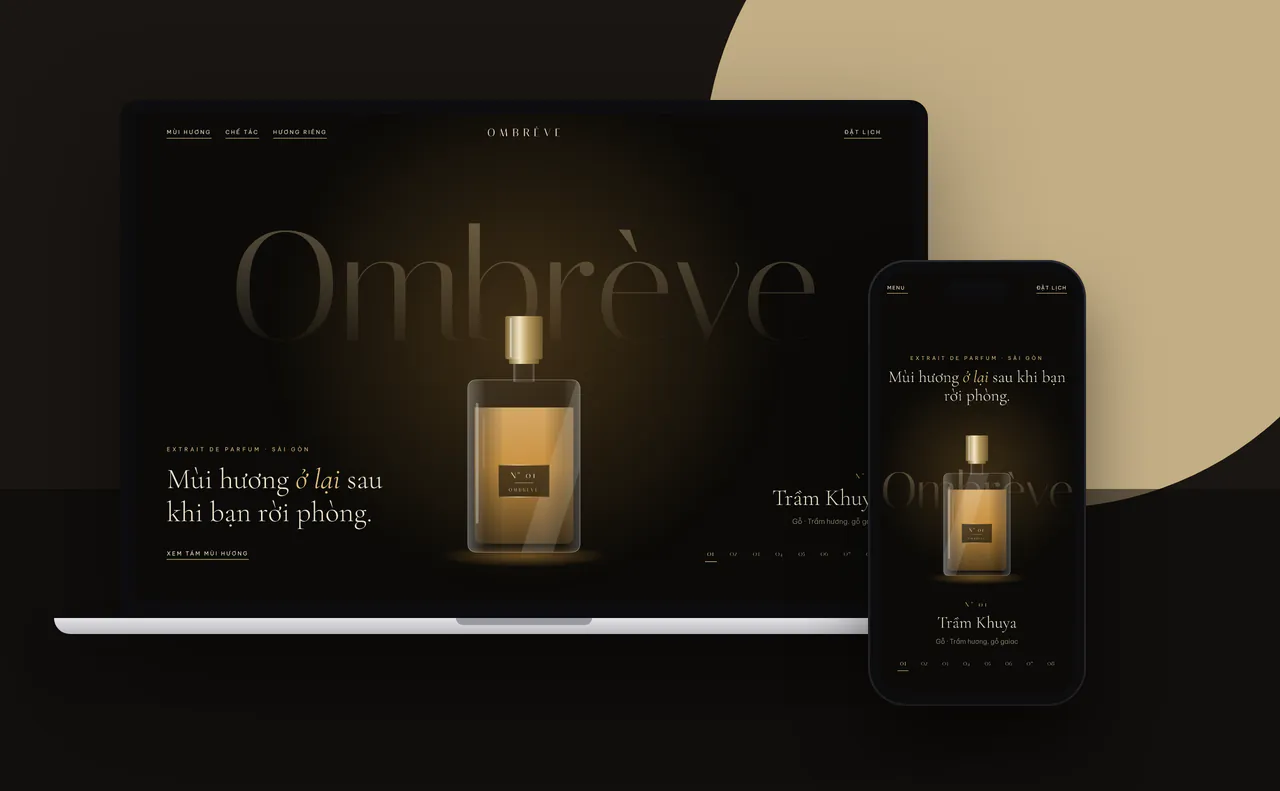
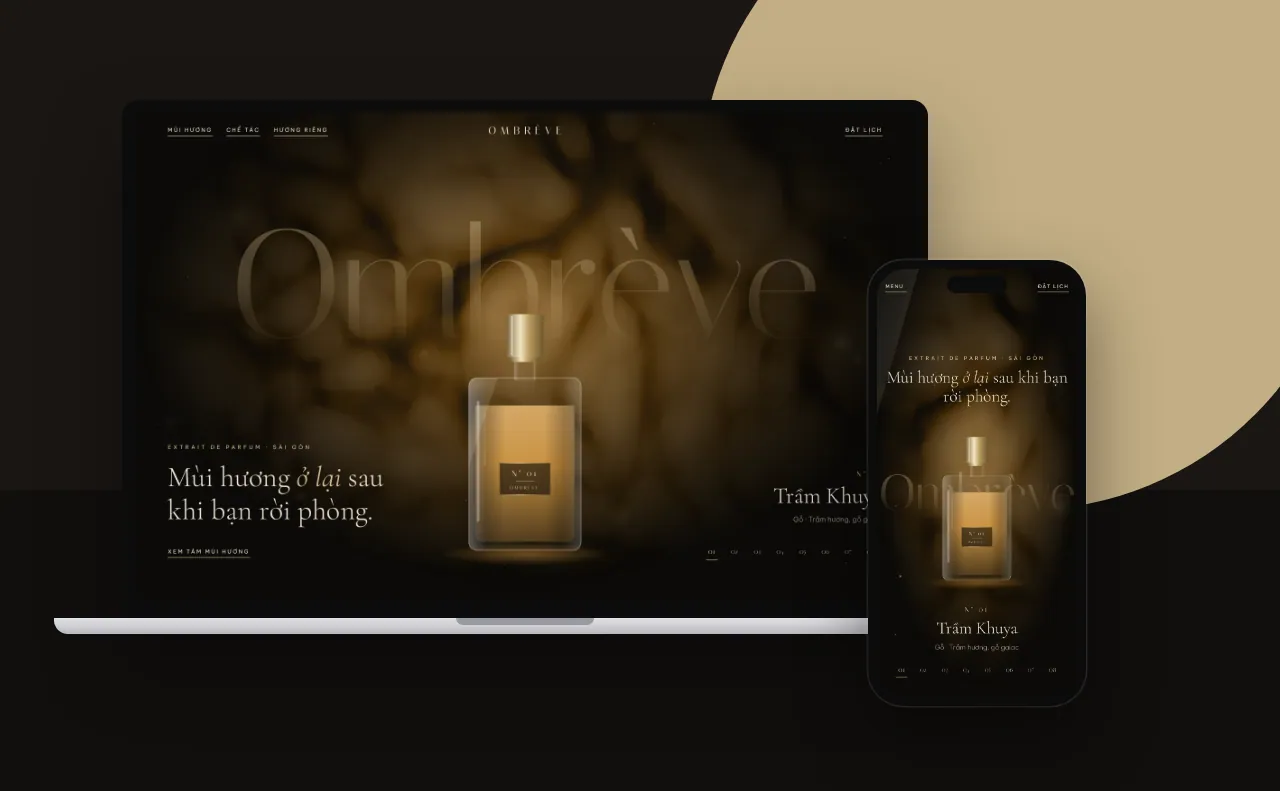
Demo Ombrève: hero điện ảnh, ba chương ghim mở bằng iris, lookbook kéo có quán tính
Claude-Session: https://claude.ai/code/session_012QLWn7rvRysGvRwdv6upwG

diff --git a/demos/lux-ombreve.html b/demos/lux-ombreve.html
@@ -46,14 +46,6 @@ input,select,textarea{font:inherit;color:inherit;border-radius:0}
 .qv-x{position:absolute;z-index:3;width:42px;height:42px;display:grid;place-items:center;font-size:26px;line-height:1}
 .toast{position:fixed;left:50%;bottom:26px;z-index:130;transform:translate(-50%,26px);opacity:0;pointer-events:none;transition:opacity 424ms var(--ease),transform 424ms var(--ease);max-width:calc(100vw - 32px);padding:10px 26px;font-size:13px;text-align:center}
 .toast.on{opacity:1;transform:translate(-50%,0)}
-.ph{position:relative;overflow:hidden;margin:0;background:var(--bg2)}
-.ph img{display:block;width:100%;height:100%;object-fit:cover;transition:transform 1796ms var(--ease),filter 1110ms var(--ease)}
-.pe{position:relative;overflow:hidden}.pe>.ph{position:absolute;inset:0}.pe>.ph img{position:absolute;left:0;top:-9%;height:118%}
-.pg-g{display:grid;grid-template-columns:repeat(4,1fr);grid-auto-rows:clamp(160px,19vw,300px);gap:10px}
-.pg-g .ph:first-child{grid-column:span 2;grid-row:span 2}.pg-4 .ph:nth-child(2){grid-column:span 2}
-.pg-g .ph:hover img{transform:scale(1.05)}
-.pg-g figcaption{position:absolute;left:0;right:0;bottom:0;padding:26px 16px 10px;font-size:13px;line-height:1.38;pointer-events:none}
-@media(max-width:700px){.pg-g{grid-template-columns:1fr 1fr;grid-auto-rows:clamp(150px,52vw,260px);gap:6px}.pg-g .ph:first-child{grid-row:span 1}.pg-4 .ph:nth-child(2){grid-column:span 1}.pg-4 .ph:last-child{grid-column:span 2}}
 .back{position:fixed;left:16px;bottom:16px;z-index:60;min-height:42px;padding:0 16px;display:flex;align-items:center;font-size:13px;letter-spacing:.04em}
 .fm{min-height:26px;font-size:13px}
 @media (prefers-reduced-motion:reduce){.js [data-r],.js [data-r=lines] .ln>span{opacity:1!important;transform:none!important;clip-path:none!important;transition:none!important}*,*::before,*::after{animation-duration:.01ms!important;animation-delay:0s!important;animation-iteration-count:1!important;transition-duration:.01ms!important;transition-delay:0s!important;scroll-behavior:auto!important}}
@@ -232,20 +224,61 @@ footer{border-top:1px solid var(--line);padding:68px 0 110px;text-align:center;o
 .fc a{color:var(--acc);text-decoration:underline;text-underline-offset:4px;display:inline-block;padding:13px 0;margin:-13px 0}
 .toast{background:var(--acc);color:var(--bg)}
 .back{border:1px solid var(--line);background:rgba(11,10,8,.72);backdrop-filter:blur(10px);color:var(--acc)}
-/*PH-CSS*/
-.pe{height:clamp(480px,92svh,940px);display:grid;align-items:end;border-block:1px solid var(--line)}
-.pe>.ph img{filter:sepia(.22) saturate(.82) brightness(.78) contrast(1.06)}
-.pe::after{content:"";position:absolute;inset:0;background:linear-gradient(0deg,rgba(11,10,8,.94) 0,rgba(11,10,8,.42) 38.2%,rgba(11,10,8,0) 61.8%),radial-gradient(ellipse at 50% 38%,transparent 38%,rgba(11,10,8,.5));pointer-events:none}
-.pe-t{position:relative;z-index:2;padding-bottom:68px}
-.pe-t .h2{margin:16px 0 26px;max-width:12em}
-.pe-c{color:var(--mut);max-width:26em}
-.pg-h{margin-bottom:42px}
-.pg-g .ph{border:1px solid var(--line);background:var(--bg2)}
-.pg-g img{filter:sepia(.24) saturate(.7) brightness(.62) contrast(1.08)}
-.pg-g .ph:first-child img{object-position:50% 62%}
-.pg-g .ph:hover img{filter:sepia(.1) saturate(.92) brightness(.9) contrast(1.04)}
-.pg-g figcaption{font-family:var(--fd);letter-spacing:.16em;color:var(--acc);background:linear-gradient(0deg,rgba(11,10,8,.86),transparent)}
-/*/PH-CSS*/
+/*MOTION*/
+.hb{position:absolute;inset:-5%;opacity:.46;isolation:isolate;-webkit-mask:radial-gradient(ellipse 60% 66% at 50% 42%,#000 6%,transparent 76%);mask:radial-gradient(ellipse 60% 66% at 50% 42%,#000 6%,transparent 76%);pointer-events:none}
+.hb img{width:100%;height:100%;object-fit:cover;filter:brightness(.78) contrast(1.16)}
+.hb::after{content:"";position:absolute;inset:0;background:var(--sc);mix-blend-mode:color}
+.hc{position:absolute;inset:0;width:100%;height:100%;pointer-events:none}
+.hsw{position:absolute;inset:-20% auto -20% 0;width:34%;background:linear-gradient(100deg,transparent,rgba(243,230,196,.1) 50%,transparent);transform:translateX(-130%) skewX(-16deg);pointer-events:none}
+.mo .hb img{animation:kb 30s ease-in-out infinite alternate}
+.mo .hsw{animation:hsw 9.6s 2.6s var(--ease) infinite}
+@keyframes kb{from{transform:scale(1.03)}to{transform:scale(1.2) translate(-2.6%,1.6%)}}
+@keyframes hsw{0%,42%{transform:translateX(-130%) skewX(-16deg)}100%{transform:translateX(430%) skewX(-16deg)}}
+.mo .hl h1 .wd{display:inline-block;overflow:hidden;vertical-align:top;padding:.3em .04em .2em;margin:-.3em -.04em -.2em}
+.mo .hl h1 .wd i{display:inline-block;font-style:inherit;animation:chr 1.5s var(--ease) both;animation-delay:calc(.62s + var(--k)*30ms)}
+@keyframes chr{from{transform:translateY(125%) rotate(7deg);opacity:0}}
+.cp{position:relative;height:clamp(480px,92svh,940px);display:grid;align-items:end;overflow:hidden;border-bottom:1px solid var(--line)}
+.cf{position:absolute;inset:0;margin:0}
+.cf img{width:100%;height:100%;object-fit:cover;object-position:var(--o,50% 50%);filter:sepia(.2) saturate(.84) brightness(.8) contrast(1.06);transform-origin:var(--o,50% 50%)}
+.cp::after{content:"";position:absolute;inset:0;background:linear-gradient(0deg,rgba(11,10,8,.95) 0,rgba(11,10,8,.5) 34%,rgba(11,10,8,0) 62%),linear-gradient(90deg,rgba(11,10,8,.6),transparent 56%);pointer-events:none}
+.ct{position:relative;z-index:2;padding-bottom:84px}
+.ct .h2{margin:16px 0 26px;max-width:12em}
+.ct>p:last-child{color:#b8ad99;max-width:26em}
+.cn,.cb{display:none}
+.mo .ch3{height:340vh}
+.mo .ch3-s{position:sticky;top:0;height:100vh;height:100svh;overflow:hidden;background:var(--bg)}
+.mo .cp{position:absolute;inset:0;height:auto;border:0;will-change:clip-path}
+.mo .cf img{will-change:transform}
+.mo .cn{display:flex;align-items:baseline;gap:10px;position:absolute;z-index:3;right:max(16px,4.2vw);bottom:68px;font-family:var(--fd);color:var(--acc)}
+.cn div{height:1.1em;overflow:hidden;font-size:clamp(68px,11vw,178px);line-height:1.1}
+.cn b{display:block;font-weight:400;transition:transform 1110ms var(--ease)}.cn span{display:block;height:1.1em;text-align:right}
+.cn em{font-style:normal;font-size:13px;letter-spacing:.26em;opacity:.7}
+.mo .cb{display:block;position:absolute;z-index:3;left:max(16px,4.2vw);right:max(16px,4.2vw);bottom:42px;height:1px;background:var(--line)}
+.cb i{position:absolute;inset:0;background:var(--acc);transform:scaleX(0);transform-origin:left}
+@media(max-width:700px){.ct{padding-bottom:110px}.mo .cn{bottom:auto;top:84px}.cn div{font-size:68px}}
+.pg-h{margin-bottom:42px;display:flex;justify-content:space-between;align-items:end;gap:26px;flex-wrap:wrap}
+.pg-n{font-size:10px;letter-spacing:.26em;text-transform:uppercase;color:var(--mut)}
+.pg{position:relative;overflow:hidden}
+.lb-bg{position:absolute;left:0;top:50%;margin-top:-.2em;font-family:var(--fd);font-size:19vw;line-height:1;white-space:nowrap;color:transparent;-webkit-text-stroke:1px rgba(214,191,148,.2);pointer-events:none;will-change:transform}
+.lb{position:relative;padding:42px 0 52px;-webkit-user-select:none;user-select:none;touch-action:pan-y}
+.lb-t{position:relative;display:flex;gap:clamp(16px,2.6vw,42px);padding:0 max(16px,4.2vw);height:min(66vh,620px);width:max-content;will-change:transform}
+.lf{position:relative;flex:none;margin:0;width:var(--w);height:var(--h,100%);align-self:var(--a,flex-start)}
+.lf-i{position:absolute;inset:0;overflow:hidden;border:1px solid var(--line);background:var(--bg2);transition:transform 686ms var(--ease)}
+.lf-i img{position:absolute;left:-9%;top:0;width:118%;max-width:none;height:100%;object-fit:cover;object-position:var(--o,50% 50%);filter:sepia(.16) saturate(.86) contrast(1.05);-webkit-user-drag:none;pointer-events:none}
+.lf-i::after{content:"";position:absolute;inset:0;background:rgba(11,10,8,.56);transition:opacity 1110ms var(--ease)}
+.lf.on .lf-i::after{opacity:.16}.lf:hover .lf-i::after{opacity:0}
+.lf:active .lf-i{transform:scale(.985)}
+.lf figcaption{position:absolute;left:0;top:100%;padding-top:10px;white-space:nowrap;font-family:var(--fd);font-size:13px;letter-spacing:.16em;color:var(--acc)}
+.lf[style*=flex-end] figcaption{top:auto;bottom:100%;padding:0 0 10px}
+.lf figcaption span{color:var(--mut);margin-left:10px}.lf figcaption span::after{content:"";display:inline-block;width:1px;height:.9em;margin-left:3px;background:var(--acc);vertical-align:-1px;opacity:0}.lf.ty figcaption span::after{opacity:1}
+.lb-l{position:absolute;left:0;top:0;width:560px;height:560px;margin:-280px 0 0 -280px;border-radius:50%;background:radial-gradient(circle,rgba(243,222,170,.2),rgba(243,222,170,.06) 38%,transparent 66%);mix-blend-mode:screen;pointer-events:none;opacity:0;transition:opacity 686ms;will-change:transform}
+.lb:hover .lb-l{opacity:1}
+.lb.drag{cursor:grab}.lb.drag:active{cursor:grabbing}
+.lb.nat{overflow-x:auto;scroll-snap-type:x mandatory;scrollbar-width:none;-webkit-overflow-scrolling:touch;touch-action:auto}.lb.nat::-webkit-scrollbar{display:none}
+.lb.nat .lf{scroll-snap-align:center}.lb.nat .lb-l{display:none}
+.lb-p{margin-top:16px}.lb-p div{position:relative;height:1px;background:var(--line)}.lb-p i{position:absolute;inset:0;background:var(--acc);transform:scaleX(.12);transform-origin:left}
+@media(max-width:700px){.lb-t{height:108vw;gap:12px}.lf{width:76vw!important;height:100%!important;align-self:flex-start!important}.lf[style*=flex-end] figcaption{top:100%;bottom:auto;padding:10px 0 0}.lb-bg{font-size:30vw}}
+/*/MOTION*/
 </style>
 </head>
 <body>
@@ -262,6 +295,8 @@ footer{border-top:1px solid var(--line);padding:68px 0 110px;text-align:center;o
 <main>
 <section class="hero" id="top">
  <div class="glow"></div>
+ <div class="hb" aria-hidden="true"><img src="../img/photo/nuoc-hoa-37127787-anh-sang.webp" width="1800" height="737" alt="" fetchpriority="high" decoding="async"></div>
+ <canvas class="hc" aria-hidden="true"></canvas><div class="hsw" aria-hidden="true"></div>
  <div class="wmw" aria-hidden="true"><span class="wm" data-px=".1">Ombrève</span></div>
  <div class="hi w">
   <div class="hl"><p class="e">Extrait de parfum · Sài Gòn</p>
@@ -275,7 +310,12 @@ footer{border-top:1px solid var(--line);padding:68px 0 110px;text-align:center;o
 
 
 <!--PH-ED-->
-<section class="pe" aria-label="Không khí của nhà Ombrève"><figure class="ph" data-r="mask"><img src="../img/sm-web-ph-nuoc-hoa-37127787.webp" width="1600" height="1067" alt="Chai nước hoa vuông nắp vàng đặt trên mặt gương, phía sau là ánh hổ phách vàng rực" decoding="async" loading="lazy" data-px=".12"></figure><div class="pe-t w"><p class="e" data-r>Chương I · Hổ phách</p><h2 class="h2" data-r="lines"><span class="ln"><span>Ánh sáng chiều muộn</span></span><span class="ln" style="--j:1"><span>rơi vào <em>giọt cuối cùng.</em></span></span></h2><p class="pe-c" data-r>Mỗi mẻ chiết đều được soi dưới đèn vàng trước khi niêm phong.</p></div></section>
+<section class="ch3" id="chuong" aria-label="Ba chương ánh sáng của nhà Ombrève"><div class="ch3-s">
+<article class="cp"><figure class="cf" style="--o:50% 64%"><img src="../img/sm-web-ph-nuoc-hoa-37127787.webp" width="1600" height="1067" alt="Chai nước hoa vuông nắp vàng đặt trên mặt gương, phía sau là ánh hổ phách vàng rực" decoding="async" loading="lazy"></figure><div class="ct w"><p class="e" data-r>Chương I · Hổ phách</p><h2 class="h2" data-r="lines"><span class="ln"><span>Ánh sáng chiều muộn</span></span><span class="ln" style="--j:1"><span>rơi vào <em>giọt cuối cùng.</em></span></span></h2><p data-r>Mỗi mẻ chiết đều được soi dưới đèn vàng trước khi niêm phong.</p></div></article>
+<article class="cp"><figure class="cf" style="--o:54% 56%"><img src="../img/sm-web-ph-nuoc-hoa-16239693.webp" width="1600" height="1200" alt="Chai nước hoa thủy tinh nằm nghiêng trên nền da đen, một vệt sáng rọi từ trên xuống" decoding="async" loading="lazy"></figure><div class="ct w"><p class="e">Chương II · Da thuộc</p><h2 class="h2">Một vệt sáng<br>trên <em>nền da tối.</em></h2><p>Hương cuối của Trầm Khuya là hổ phách và da thuộc: ấm, khô, rất gần da.</p></div></article>
+<article class="cp"><figure class="cf" style="--o:50% 46%"><img src="../img/photo/nuoc-hoa-34089129-xl.webp" width="2400" height="1526" alt="Lọ nước hoa thủy tinh mờ đặt trước nền đá chạm màu xám xanh" decoding="async" loading="lazy"></figure><div class="ct w"><p class="e">Chương III · Sương</p><h2 class="h2">Thủy tinh mờ<br>giữ lại <em>hơi sương.</em></h2><p>Sương Nhài mở bằng trà trắng và lê xanh, trong và mát như buổi sớm.</p></div></article>
+<div class="cn" aria-hidden="true"><div><b><span>I</span><span>II</span><span>III</span></b></div><em>/ III</em></div><div class="cb" aria-hidden="true"><i></i></div>
+</div></section>
 <!--/PH-ED-->
 
 <section class="sec man" id="triet-ly"><div class="w">
@@ -311,7 +351,10 @@ footer{border-top:1px solid var(--line);padding:68px 0 110px;text-align:center;o
 
 
 <!--PH-LB-->
-<section class="sec pg" id="anh-sang"><div class="w"><div class="pg-h"><p class="e" data-r>Nhật ký ánh sáng</p><h2 class="h2" data-r="lines" style="margin-top:16px"><span class="ln"><span>Mùi hương,</span></span><span class="ln" style="--j:1"><span><em>trong bóng tối.</em></span></span></h2></div><div class="pg-g pg-4"><figure class="ph" data-r="mask" style="--i:0"><img src="../img/sm-web-ph-nuoc-hoa-16239693.webp" width="1600" height="1200" alt="Chai nước hoa thủy tinh nằm nghiêng trên nền da đen, một vệt sáng rọi từ trên xuống" decoding="async" loading="lazy"><figcaption>N° 01 · Vệt sáng</figcaption></figure><figure class="ph" data-r="mask" style="--i:1"><img src="../img/photo/nuoc-hoa-34089129.webp" width="1600" height="1018" alt="Lọ nước hoa thủy tinh mờ đặt trước nền vải thô màu xám xanh" decoding="async" loading="lazy"><figcaption>N° 02 · Sương</figcaption></figure><figure class="ph" data-r="mask" style="--i:2"><img src="../img/photo/nuoc-hoa-8553210.webp" width="1067" height="1600" alt="Chai nước hoa nắp vàng nằm trên tấm lụa màu kem" decoding="async" loading="lazy"><figcaption>N° 03 · Lụa kem</figcaption></figure><figure class="ph" data-r="mask" style="--i:3"><img src="../img/photo/nuoc-hoa-36389336.webp" width="1226" height="1600" alt="Lọ nước hoa thủy tinh thổi tay viền vàng, nút hình giọt lửa" decoding="async" loading="lazy"><figcaption>N° 04 · Thủy tinh thổi</figcaption></figure></div></div></section>
+<section class="sec pg" id="anh-sang"><div class="w"><div class="pg-h"><div><p class="e" data-r>Nhật ký ánh sáng</p><h2 class="h2" data-r="lines" style="margin-top:16px"><span class="ln"><span>Mùi hương,</span></span><span class="ln" style="--j:1"><span><em>trong bóng tối.</em></span></span></h2></div><p class="pg-n" data-r>Kéo ngang để soi từng khung · 05 ảnh</p></div></div>
+<div class="lb-bg" aria-hidden="true">trong bóng tối · dưới đèn vàng · trong bóng tối</div>
+<div class="lb" id="lb" data-c="Kéo" tabindex="0" role="group" aria-label="Năm ảnh không khí, kéo hoặc vuốt ngang để xem"><div class="lb-t"><figure class="lf" style="--w:min(46vw,760px);--h:82%;--o:50% 62%"><div class="lf-i"><img src="../img/sm-web-ph-nuoc-hoa-16239693.webp" width="1600" height="1200" alt="Chai nước hoa thủy tinh nằm nghiêng trên nền da đen, một vệt sáng rọi từ trên xuống" decoding="async" loading="lazy" draggable="false"></div><figcaption>N° 01<span data-tw="Vệt sáng">Vệt sáng</span></figcaption></figure><figure class="lf" style="--w:min(25vw,400px);--h:88%;--a:flex-end"><div class="lf-i"><img src="../img/photo/nuoc-hoa-8553210.webp" width="1067" height="1600" alt="Chai nước hoa nắp vàng nằm trên tấm lụa màu kem" decoding="async" loading="lazy" draggable="false"></div><figcaption>N° 02<span data-tw="Lụa kem">Lụa kem</span></figcaption></figure><figure class="lf" style="--w:min(40vw,660px);--h:72%"><div class="lf-i"><img src="../img/photo/nuoc-hoa-34089129.webp" width="1600" height="1018" alt="Lọ nước hoa thủy tinh mờ đặt trước nền đá chạm màu xám xanh" decoding="async" loading="lazy" draggable="false"></div><figcaption>N° 03<span data-tw="Sương">Sương</span></figcaption></figure><figure class="lf" style="--w:min(24vw,380px);--h:92%;--a:flex-end"><div class="lf-i"><img style="filter:sepia(.3) saturate(.8) brightness(.74) contrast(1.06)" src="../img/photo/nuoc-hoa-36389336.webp" width="1226" height="1600" alt="Lọ nước hoa thủy tinh thổi tay viền vàng, nút hình giọt lửa" decoding="async" loading="lazy" draggable="false"></div><figcaption>N° 04<span data-tw="Thủy tinh thổi">Thủy tinh thổi</span></figcaption></figure><figure class="lf" style="--w:min(44vw,720px);--h:80%;--o:50% 70%"><div class="lf-i"><img src="../img/sm-web-ph-nuoc-hoa-37127787.webp" width="1600" height="1067" alt="Chai nước hoa vuông nắp vàng đặt trên mặt gương, phía sau là ánh hổ phách vàng rực" decoding="async" loading="lazy" draggable="false"></div><figcaption>N° 05<span data-tw="Hổ phách">Hổ phách</span></figcaption></figure></div><div class="lb-l" aria-hidden="true"></div></div>
+<div class="w lb-p" aria-hidden="true"><div><i></i></div></div></section>
 <!--/PH-LB-->
 
 <section class="sec bs" id="huong-rieng"><div class="w bsg">
@@ -459,6 +502,56 @@ gr.addEventListener('click',e=>{const c=e.target.closest('.cd');if(!c)return;con
  const sz=$('.sz',qvc);sz.addEventListener('click',e=>{const b=e.target.closest('button');if(!b)return;$$('button',sz).forEach(x=>{x.classList.toggle('on',x===b);x.setAttribute('aria-pressed',x===b)});$('#qp').textContent=vnd(Math.round(p.p*b.dataset.k/100000)*100000)});
  $('#qb').addEventListener('click',()=>{QV.close();pick('#fs',p.n)});$('#qw').addEventListener('click',()=>toast('Đã lưu '+p.n+'. Trang mẫu nên danh sách chưa được ghi lại.'))});
 $('#fs').insertAdjacentHTML('beforeend',P.map(p=>`<option>${p.n}</option>`).join(''));
+/* ===== motion ===== */
+const MO=!RM,cl=(v,a=0,b=1)=>v<a?a:v>b?b:v,sm=t=>t*t*(3-2*t),seg=(p,a,b)=>cl((p-a)/(b-a));MO&&H.classList.add('mo');
+const vis=(el,f)=>'IntersectionObserver' in window?new IntersectionObserver(e=>f(e[0].isIntersecting),{rootMargin:'80px'}).observe(el):f(1);
+/* tiêu đề tách ký tự */
+if(MO){const h1=$('.hl h1');let k=0;h1.setAttribute('aria-label',h1.textContent);
+ const wr=n=>[...n.childNodes].forEach(c=>{if(c.nodeType!==3)return wr(c);const f=D.createDocumentFragment();c.textContent.split(/(\s+)/).forEach(w=>{if(!w)return;if(!w.trim())return f.append(' ');const s=D.createElement('span');s.className='wd';s.setAttribute('aria-hidden','true');s.innerHTML=[...w].map(ch=>`<i style="--k:${k++}">${ch}</i>`).join('');f.append(s)});c.replaceWith(f)});wr(h1)}
+/* hero: bụi sáng + parallax theo chuột */
+const hcv=$('.hc');
+if(MO&&hcv){const c=hcv.getContext('2d'),N=FINE?52:22,ps=[],sp=D.createElement('canvas'),lay=[[$('.hb'),-18],[$('.wmw'),-30],[stage,16]];let w,h,dpr,on=0,raf=0,mx=0,my=0,tx=0,ty=0;
+ sp.width=sp.height=64;const g=sp.getContext('2d'),gr=g.createRadialGradient(32,32,0,32,32,32);gr.addColorStop(0,'rgba(246,226,176,1)');gr.addColorStop(.4,'rgba(240,206,140,.5)');gr.addColorStop(1,'rgba(240,206,140,0)');g.fillStyle=gr;g.fillRect(0,0,64,64);
+ const rs=()=>{dpr=Math.min(devicePixelRatio||1,1.5);w=hero.clientWidth;h=hero.clientHeight;hcv.width=w*dpr;hcv.height=h*dpr};rs();addEventListener('resize',rs);
+ for(let i=0;i<N;i++)ps.push({x:Math.random(),y:Math.random(),z:.3+Math.random()*.7,r:Math.random()<.24?14+Math.random()*30:1.2+Math.random()*2.4,v:.00016+Math.random()*.00042,ph:Math.random()*6.28});
+ const fr=t=>{raf=0;if(!on)return;mx+=(tx-mx)*.05;my+=(ty-my)*.05;c.setTransform(dpr,0,0,dpr,0,0);c.clearRect(0,0,w,h);c.globalCompositeOperation='lighter';
+  for(const p of ps){p.y-=p.v*p.z;if(p.y<-.06){p.y=1.06;p.x=Math.random()}const r=p.r*p.z,x=(p.x+Math.sin(t*.00028+p.ph)*.014)*w+mx*p.z*34,y=p.y*h+my*p.z*22;
+   c.globalAlpha=(.55+.45*Math.sin(t*.0011+p.ph))*(p.r>8?.1:.62)*cl(Math.min(1.06-p.y,p.y+.06)*5);c.drawImage(sp,x-r,y-r,r*2,r*2)}
+  lay.forEach(([el,k])=>{if(el)el.style.translate=(mx*k).toFixed(1)+'px '+(my*k*.6).toFixed(1)+'px'});raf=requestAnimationFrame(fr)};
+ const go2=v=>{on=v&&!D.hidden;on&&!raf&&(raf=requestAnimationFrame(fr))};let iv=0;vis(hero,v=>{iv=v;go2(v)});D.addEventListener('visibilitychange',()=>go2(iv));
+ FINE&&hero.addEventListener('mousemove',e=>{tx=e.clientX/innerWidth-.5;ty=e.clientY/innerHeight-.5},{passive:true})}
+/* ba chương: ghim, mở cảnh bằng iris */
+const ch3=$('.ch3');
+if(MO&&ch3){const cps=$$('.cp',ch3),im=cps.map(c=>$('img',c)),ct=cps.map(c=>$('.ct',c)),cn=$('.cn b',ch3),cb=$('.cb i',ch3),AT=[0,[54,56],[50,46]];let tk=0;
+ const up=()=>{tk=0;const r=ch3.getBoundingClientRect(),vh=innerHeight;if(r.bottom<-80||r.top>vh+80)return;
+  const e=cl(1-r.top/vh),p=cl(-r.top/(r.height-vh)),R=Math.hypot(innerWidth,vh)*1.02,k=1-sm(e),t=[1,sm(seg(p,.2,.44)),sm(seg(p,.58,.82))];
+  cps[0].style.clipPath=k>.001?`inset(${(k*18).toFixed(2)}% ${(k*26).toFixed(2)}%)`:'none';
+  for(let i=1;i<3;i++){const c=cps[i].style;c.visibility=t[i]>0?'visible':'hidden';c.clipPath=t[i]<1?`circle(${(t[i]*R).toFixed(1)}px at ${AT[i][0]}% ${AT[i][1]}%)`:'none';ct[i].style.transform=`translate3d(0,${((1-t[i])*52).toFixed(1)}px,0)`;ct[i].style.opacity=cl(t[i]*2-1).toFixed(3)}
+  [cl(e*.4+seg(p,0,.44)*.6),seg(p,.2,.82),seg(p,.58,1.16)].forEach((v,i)=>im[i].style.transform=`scale(${(1.22-.22*v).toFixed(4)})`);
+  cn.style.transform=`translate3d(0,${-(p<.32?0:p<.7?1:2)*100/3}%,0)`;cb.style.transform=`scaleX(${p.toFixed(4)})`};
+ addEventListener('scroll',()=>{tk||(tk=requestAnimationFrame(up))},{passive:true});addEventListener('resize',up);up()}
+/* lookbook: kéo có quán tính, đèn soi theo chuột */
+const lb=$('#lb');
+if(lb){const tr=$('.lb-t',lb),fs=$$('.lf',lb),bg=$('.lb-bg'),bar=$('.lb-p i'),lz=$('.lb-l',lb);
+ const tw=f=>{if(f.tw)return;f.tw=1;f.classList.add('on');const s=$('[data-tw]',f),t=s.dataset.tw;if(RM)return;let i=0;s.textContent='';f.classList.add('ty');const iv=setInterval(()=>{s.textContent=t.slice(0,++i);if(i>=t.length){clearInterval(iv);setTimeout(()=>f.classList.remove('ty'),900)}},68)};
+ if(MO&&FINE){lb.classList.add('drag');let x=0,tx=0,v=0,max=0,down=0,px=0,on=0,raf=0,lx=0,ly=0,cx=0,cy=0;
+  const fr=()=>{raf=0;if(!on)return;max=Math.max(0,tr.scrollWidth-lb.clientWidth);if(!down){tx+=v;v*=.94;Math.abs(v)<.05&&(v=0)}
+   const r=lb.getBoundingClientRect(),vw=innerWidth,sp=cl((innerHeight-r.top)/(innerHeight+r.height))*max*.34;
+   if(tx+sp<0){tx=-sp;v=0}if(tx+sp>max){tx=max-sp;v=0}x+=(tx+sp-x)*.11;
+   tr.style.transform=`translate3d(${(-x).toFixed(1)}px,0,0)`;bg.style.transform=`translate3d(${(x*.42-vw*.5).toFixed(1)}px,0,0)`;bar.style.transform=`scaleX(${max?(.12+.88*x/max).toFixed(4):1})`;
+   fs.forEach(f=>{const k=(f.offsetLeft+f.offsetWidth/2-x-vw/2)/vw;f.firstChild.firstChild.style.transform=`translate3d(${(cl(k,-1,1)*-7).toFixed(2)}%,0,0)`;Math.abs(k)<.3&&r.top<innerHeight*.8&&tw(f)});
+   cx+=(lx-cx)*.14;cy+=(ly-cy)*.14;lz.style.transform=`translate3d(${cx.toFixed(1)}px,${cy.toFixed(1)}px,0)`;raf=requestAnimationFrame(fr)};
+  vis(lb,s=>{on=s;s&&!raf&&(raf=requestAnimationFrame(fr))});
+  lb.addEventListener('pointerdown',e=>{if(e.button)return;down=1;px=e.clientX;v=0;lb.setPointerCapture(e.pointerId)});
+  lb.addEventListener('pointermove',e=>{const r=lb.getBoundingClientRect();lx=e.clientX-r.left;ly=e.clientY-r.top;if(!down)return;const d=px-e.clientX;px=e.clientX;tx+=d;v=v*.5+d*.5});
+  const end=()=>{down=0};lb.addEventListener('pointerup',end);lb.addEventListener('pointercancel',end);
+  lb.addEventListener('wheel',e=>{if(Math.abs(e.deltaX)>Math.abs(e.deltaY)){e.preventDefault();tx+=e.deltaX}},{passive:false});
+  lb.addEventListener('keydown',e=>{const d=e.key==='ArrowRight'?1:e.key==='ArrowLeft'?-1:0;if(d){e.preventDefault();v+=d*26}})}
+ else{lb.classList.add('nat');let tk=0;const up=()=>{tk=0;const max=lb.scrollWidth-lb.clientWidth,x=lb.scrollLeft;bar.style.transform=`scaleX(${max>0?(.12+.88*x/max).toFixed(4):1})`;RM||(bg.style.transform=`translate3d(${(x*.3-innerWidth*.4).toFixed(1)}px,0,0)`)};
+  lb.addEventListener('scroll',()=>{tk||(tk=requestAnimationFrame(up))},{passive:true});up();
+  if('IntersectionObserver' in window){const o=new IntersectionObserver(es=>es.forEach(e=>e.isIntersecting&&tw(e.target)),{root:lb,threshold:.6,rootMargin:'9999px 0px'});fs.forEach(f=>o.observe(f))}else fs.forEach(tw)}}
+/* số đếm */
+MO&&'IntersectionObserver' in window&&$$('.sig b').forEach(b=>{const m=/^(\d+)(.*)$/.exec(b.textContent);if(!m)return;const n=+m[1];b.textContent='0'+m[2];new IntersectionObserver((e,o)=>{if(!e[0].isIntersecting)return;o.disconnect();const t0=performance.now(),f=t=>{const k=cl((t-t0)/1800);b.textContent=Math.round(n*(1-Math.pow(1-k,4)))+m[2];k<1&&requestAnimationFrame(f)};requestAnimationFrame(f)},{threshold:.6}).observe(b)});
 scan();
 })();
 </script>
